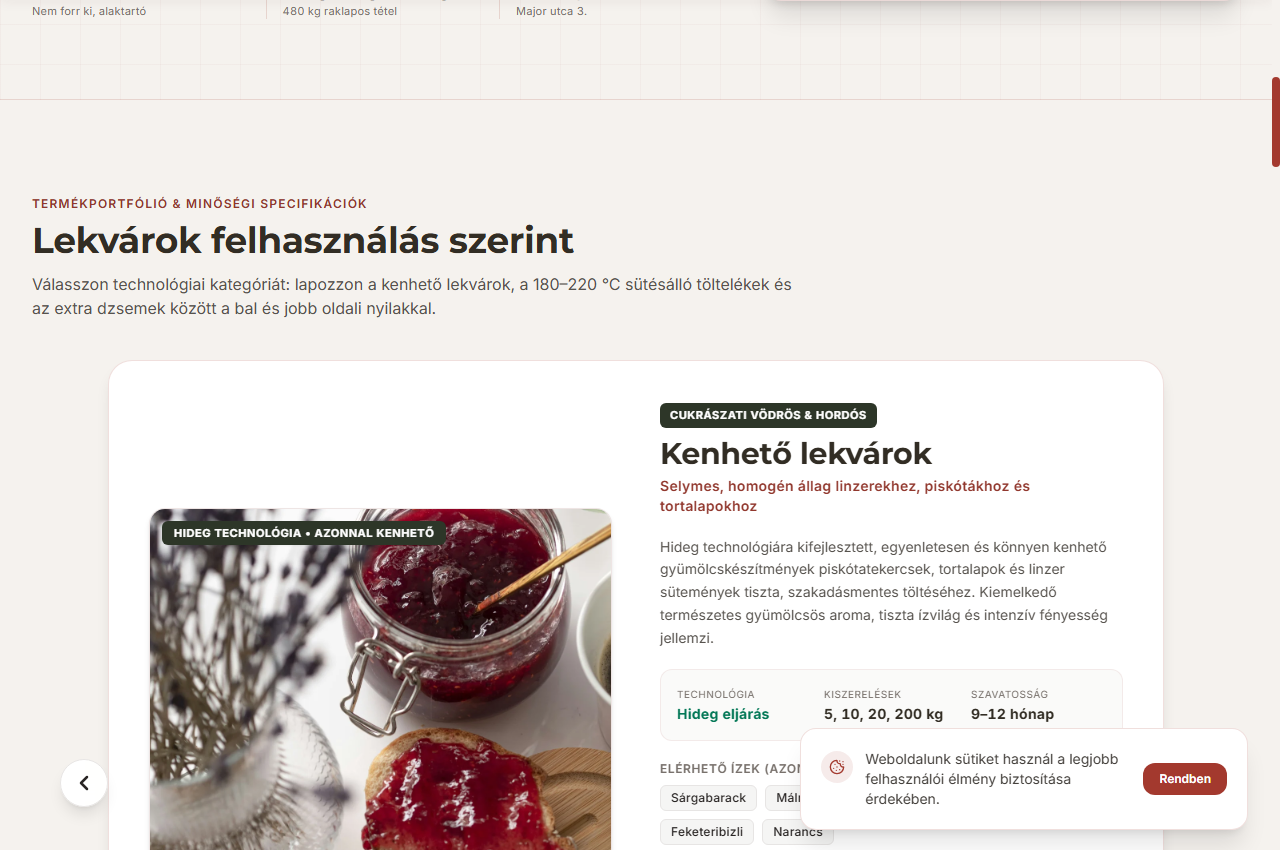
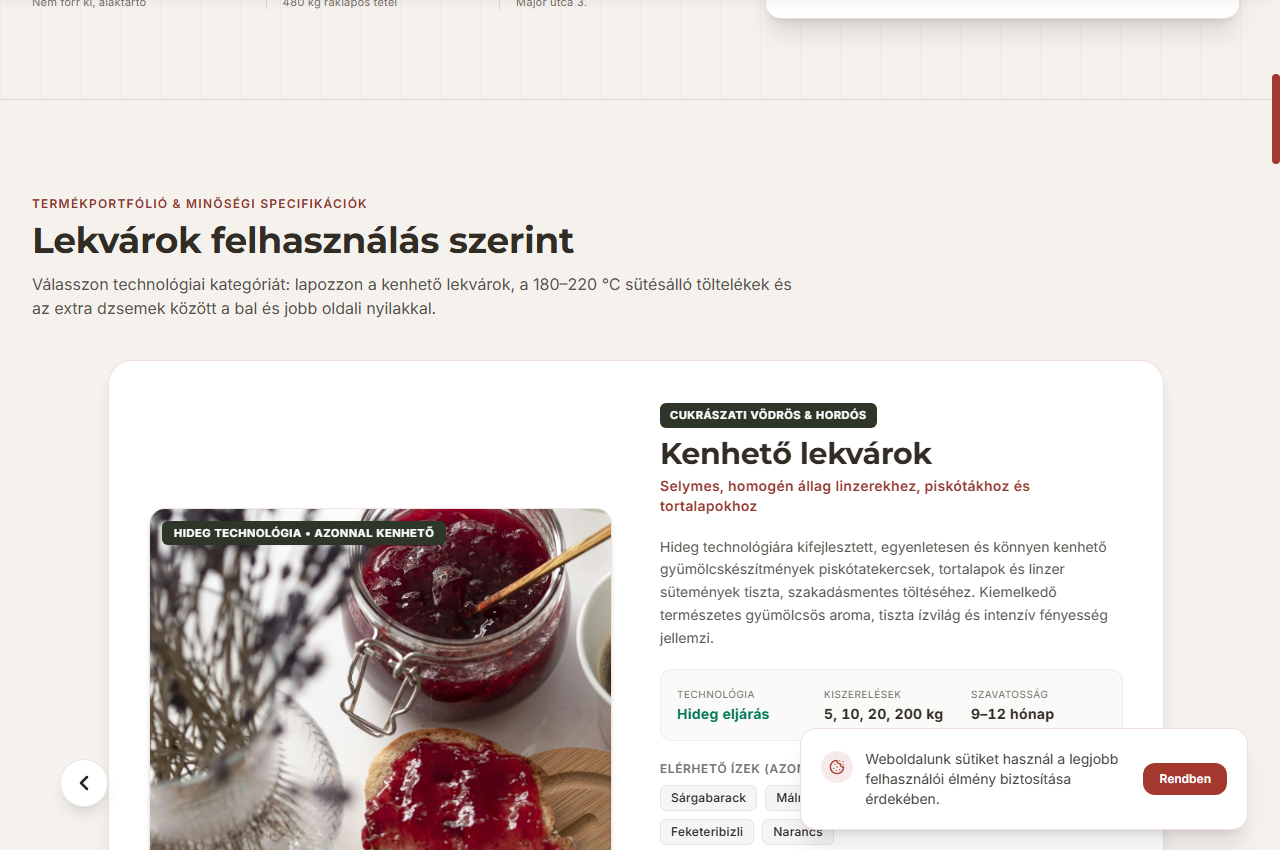
feat(hero): remove category badge pill from hero section

diff --git a/index.html b/index.html
@@ -375,12 +375,6 @@
         <!-- Left Column: High-Conviction Value Proposition (Span 7) -->
         <div class="lg:col-span-7 space-y-6">
           
-          <!-- Category Badge -->
-          <div class="inline-flex items-center gap-2 px-3 py-1 rounded-full border text-xs font-mono-spec uppercase tracking-wider"
-               style="background-color: rgba(163, 57, 46, 0.06); border-color: var(--sv-border); color: var(--sv-burgundy);">
-            <span class="w-1.5 h-1.5 rounded-full" style="background-color: var(--sv-orange);"></span>
-            <span data-i18n="hero_badge">B2B Kenyérgyári & Finompékáru Alapanyagok</span>
-          </div>
 
           <!-- Headline -->
           <h1 class="font-montserrat font-extrabold text-2xl xs:text-3xl sm:text-4xl lg:text-[2.5rem] xl:text-[2.85rem] tracking-tight pb-1 break-words"

diff --git a/scripts/compile_v2.py b/scripts/compile_v2.py
@@ -384,12 +384,6 @@ def generate_html():
         <!-- Left Column: High-Conviction Value Proposition (Span 7) -->
         <div class="lg:col-span-7 space-y-6">
           
-          <!-- Category Badge -->
-          <div class="inline-flex items-center gap-2 px-3 py-1 rounded-full border text-xs font-mono-spec uppercase tracking-wider"
-               style="background-color: rgba(163, 57, 46, 0.06); border-color: var(--sv-border); color: var(--sv-burgundy);">
-            <span class="w-1.5 h-1.5 rounded-full" style="background-color: var(--sv-orange);"></span>
-            <span data-i18n="hero_badge">B2B Kenyérgyári & Finompékáru Alapanyagok</span>
-          </div>
 
           <!-- Headline -->
           <h1 class="font-montserrat font-extrabold text-2xl xs:text-3xl sm:text-4xl lg:text-[2.5rem] xl:text-[2.85rem] tracking-tight pb-1 break-words"
